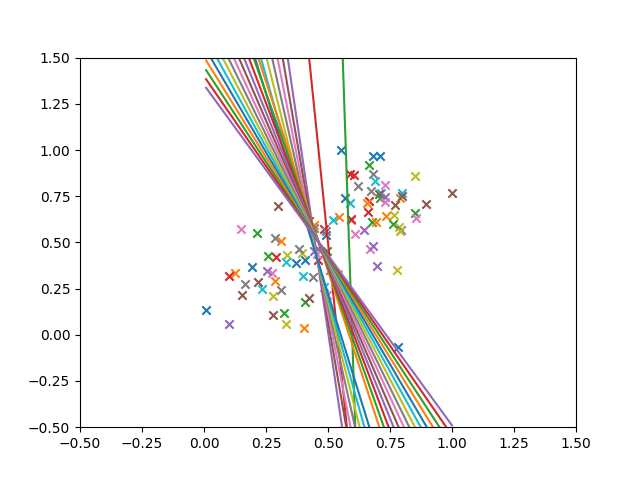
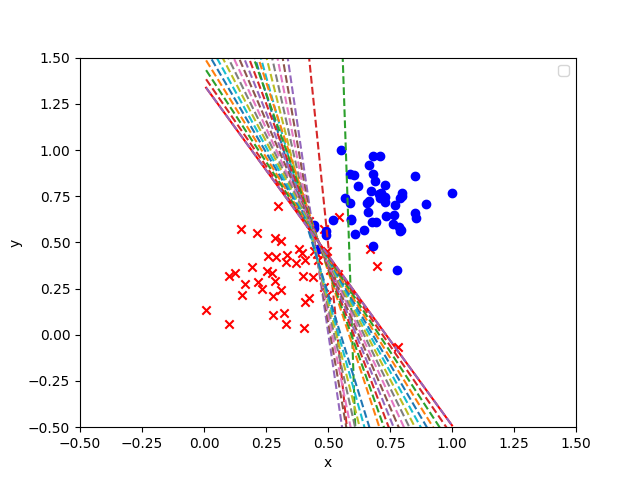
Fix visualize problem of perceptron algoritm

diff --git a/pytorch/perceptron_algorithm/percepton.py b/pytorch/perceptron_algorithm/percepton.py
@@ -71,13 +71,26 @@ Y = np.array(Y)
 fig = plt.figure()
 ax1 = fig.add_subplot(111)
 for row in range(len(X)):
-    ax1.scatter(X[row][0], X[row][1], marker='x')
+    if Y[row] == 1:
+        ax1.scatter(X[row][0], X[row][1], color='r', marker='x')
+    else:
+        ax1.scatter(X[row][0], X[row][1], color='b', marker='o')
 
 W = trainPerceptronAlgorithm(X, Y)
-x = np.linspace(min(X.T[0]), max(X.T[0]), 50)
+x = np.linspace(min(X.T[0]), max(X.T[0]), 100)
+for i in range(len(W)):
+    w = W[i]
+    y = w[0]*x + w[1]
+    if i == len(W)-1:
+        plt.plot(x, y, 'r')
+    plt.plot(x, y, '--')
+
 plt.xlim(-0.5, 1.5)
 plt.ylim(-0.5, 1.5)
-for w in W:
-    y = w[0]*x + w[1]
-    plt.plot(x, y)
+
+plt.xlabel('x')
+plt.ylabel('y')
+plt.legend()
+
+
 plt.show()

diff --git a/pytorch/perceptron_algorithm/README.md b/pytorch/perceptron_algorithm/README.md
@@ -2,11 +2,11 @@
 
 编写感知器算法
 
-感知器步骤如下所示。对于坐标轴为 $(p,q)$ 的点，标签 y，以及等式 $\hat{y} = step(w_1x_1 + w_2x_2 + b)$ 给出的预测
+感知器步骤如下所示。对于坐标轴为 $$(p,q)$$ 的点，标签 y，以及等式 $$\hat{y} = step(w_1x_1 + w_2x_2 + b)$$ 给出的预测
 
 - 如果点分类正确，则什么也不做。
-- 如果点分类为正，但是标签为负，则分别减去 $\alpha p$,$\alpha q$ 和 $\alpha$ 至$w_1, w_2$ 和 b
-- 如果点分类为负，但是标签为正，则分别将 $\alpha p, \alpha q$ 和 $\alpha $加到 $w_1, w_2 和$ b上.
+- 如果点分类为正，但是标签为负，则分别减去 $$\alpha p$,$\alpha q$$ 和 $$\alpha$$至$$w_1, w_2$$ 和 b
+- 如果点分类为负，但是标签为正，则分别将 $$\alpha p, \alpha q$$ 和 $$\alpha $$加到 $$w_1, w_2$$和$$b$$上.
 
 # Read csv data
 
